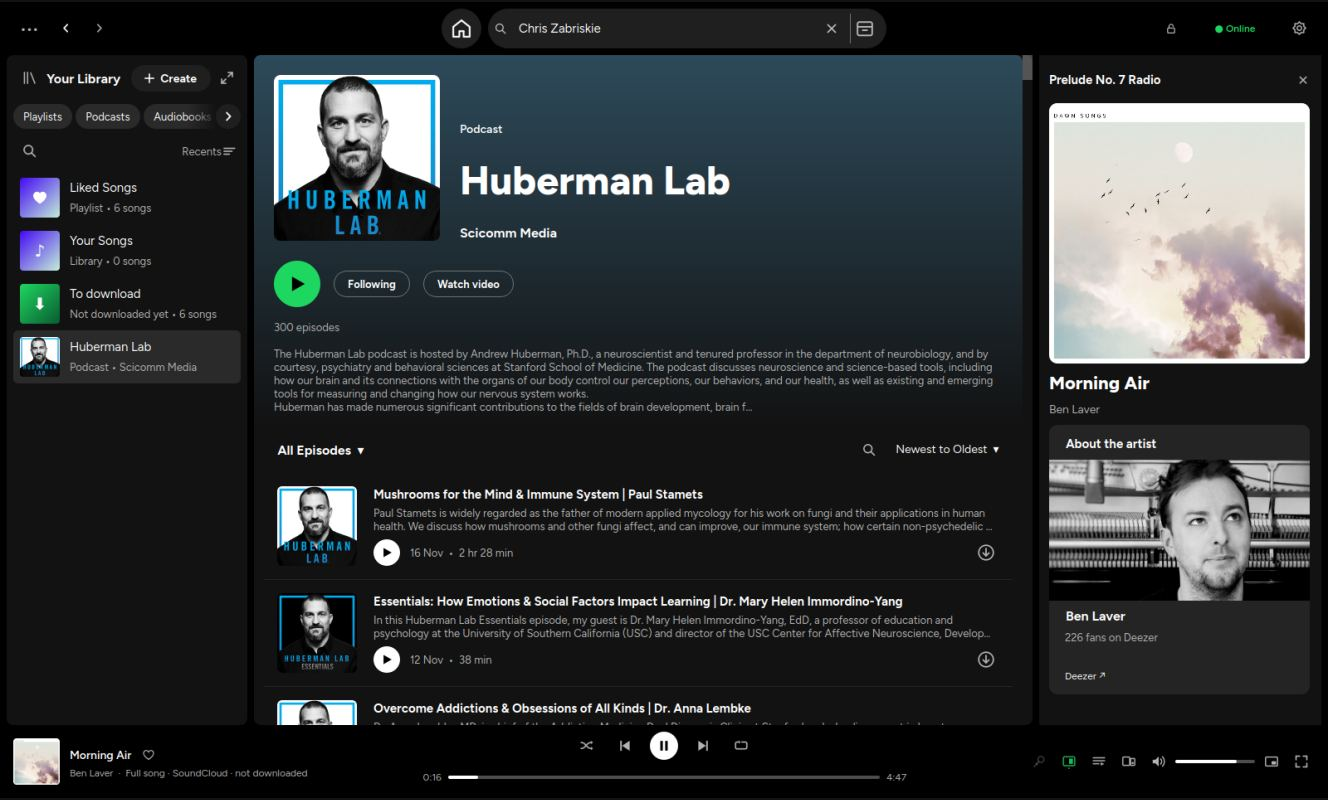
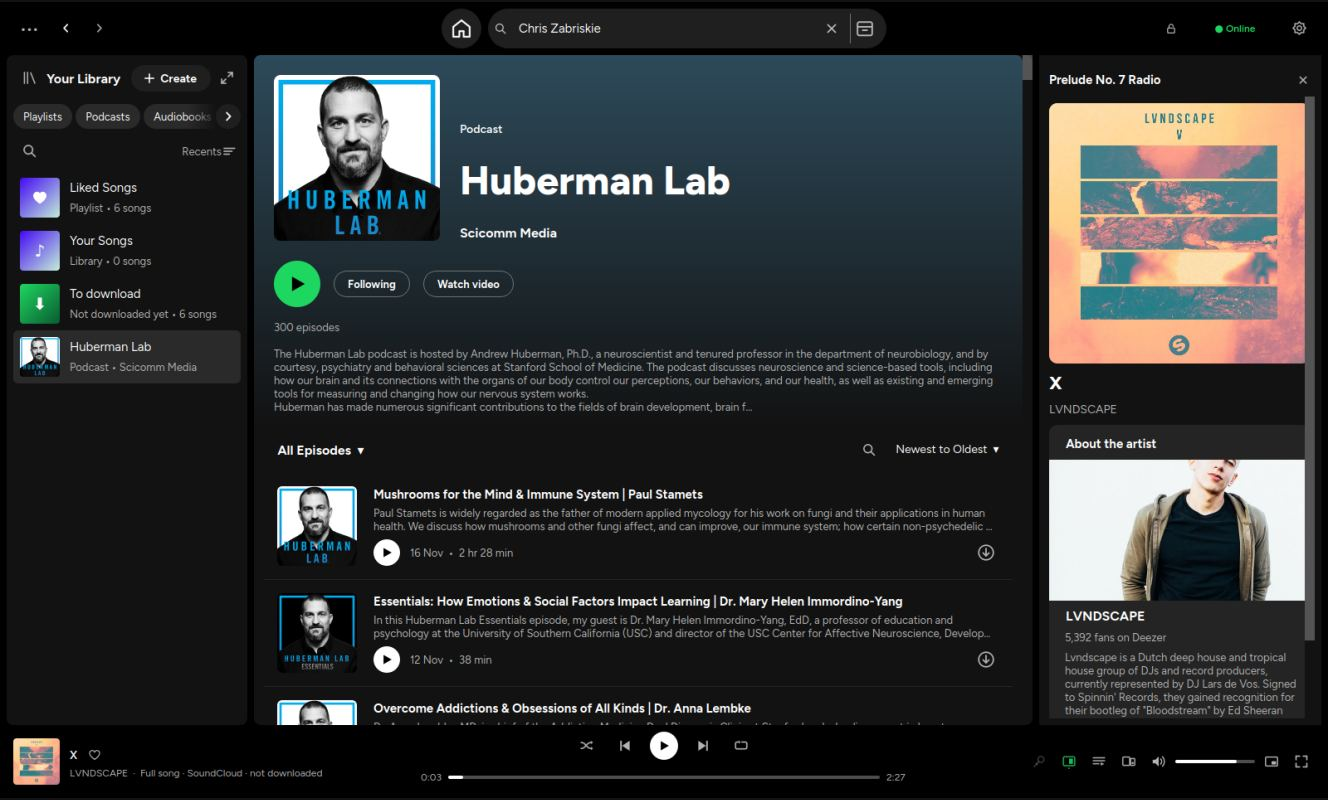
Showcase: no radio (it mixes in music that isn't openly licensed); tour 'Radio and previews' picture from the preview feed [skip ci]
Claude-Session: https://claude.ai/code/session_01NbYqAPf1hYcPnmSnCoJfJG

Changed region(s): [[0.7718, 0.125, 1.0, 0.9062], [0.0, 0.9062, 0.247, 1.0]]

diff --git a/tools/showcase.py b/tools/showcase.py
@@ -194,7 +194,7 @@ def made_for_you():
     shot("discover-weekly")
 
 
-def radio():
+def radio():          # not run: a radio mixes in similar artists, whose music isn't openly licensed
     songs = state.get("songs") or []
     w.start_radio(songs[0])
     pump(40)
@@ -323,7 +323,7 @@ def mini():
 
 for name, fn in [("home", home), ("search", search), ("play", play), ("artist", artist), ("album", album),
                  ("queue", queue), ("liked", liked), ("save picker", save_picker), ("made for you", made_for_you),
-                 ("radio", radio), ("preview feed", preview_feed), ("podcast", podcast),
+                 ("preview feed", preview_feed), ("podcast", podcast),
                  ("full screen", lyrics_or_full), ("mini player", mini), ("private", private), ("zoom", zoom),
                  ("settings", settings), ("import", import_dialog), ("pair", pair_dialog),
                  ("support", support_dialog)]:

diff --git a/tools/tour_images.py b/tools/tour_images.py
@@ -15,7 +15,7 @@ HERE = os.path.dirname(os.path.dirname(os.path.abspath(__file__)))
 
 # picture -> (screenshot name, is a dialog)
 DESKTOP = {"search.jpg": ("search", False), "save.jpg": ("save-picker", False), "import.jpg": ("import", True),
-           "radio.jpg": ("radio", False), "podcast.jpg": ("podcast", False), "pair.jpg": ("pair", True),
+           "radio.jpg": ("preview-feed", False), "podcast.jpg": ("podcast", False), "pair.jpg": ("pair", True),
            "support.jpg": ("support", True), "mini.jpg": ("mini-player", True),
            "private.jpg": ("private-session", False), "settings.jpg": ("settings", False)}
 ANDROID = {"search.jpg": "search_results", "save.jpg": "your_songs_menu", "import.jpg": "import_result",
